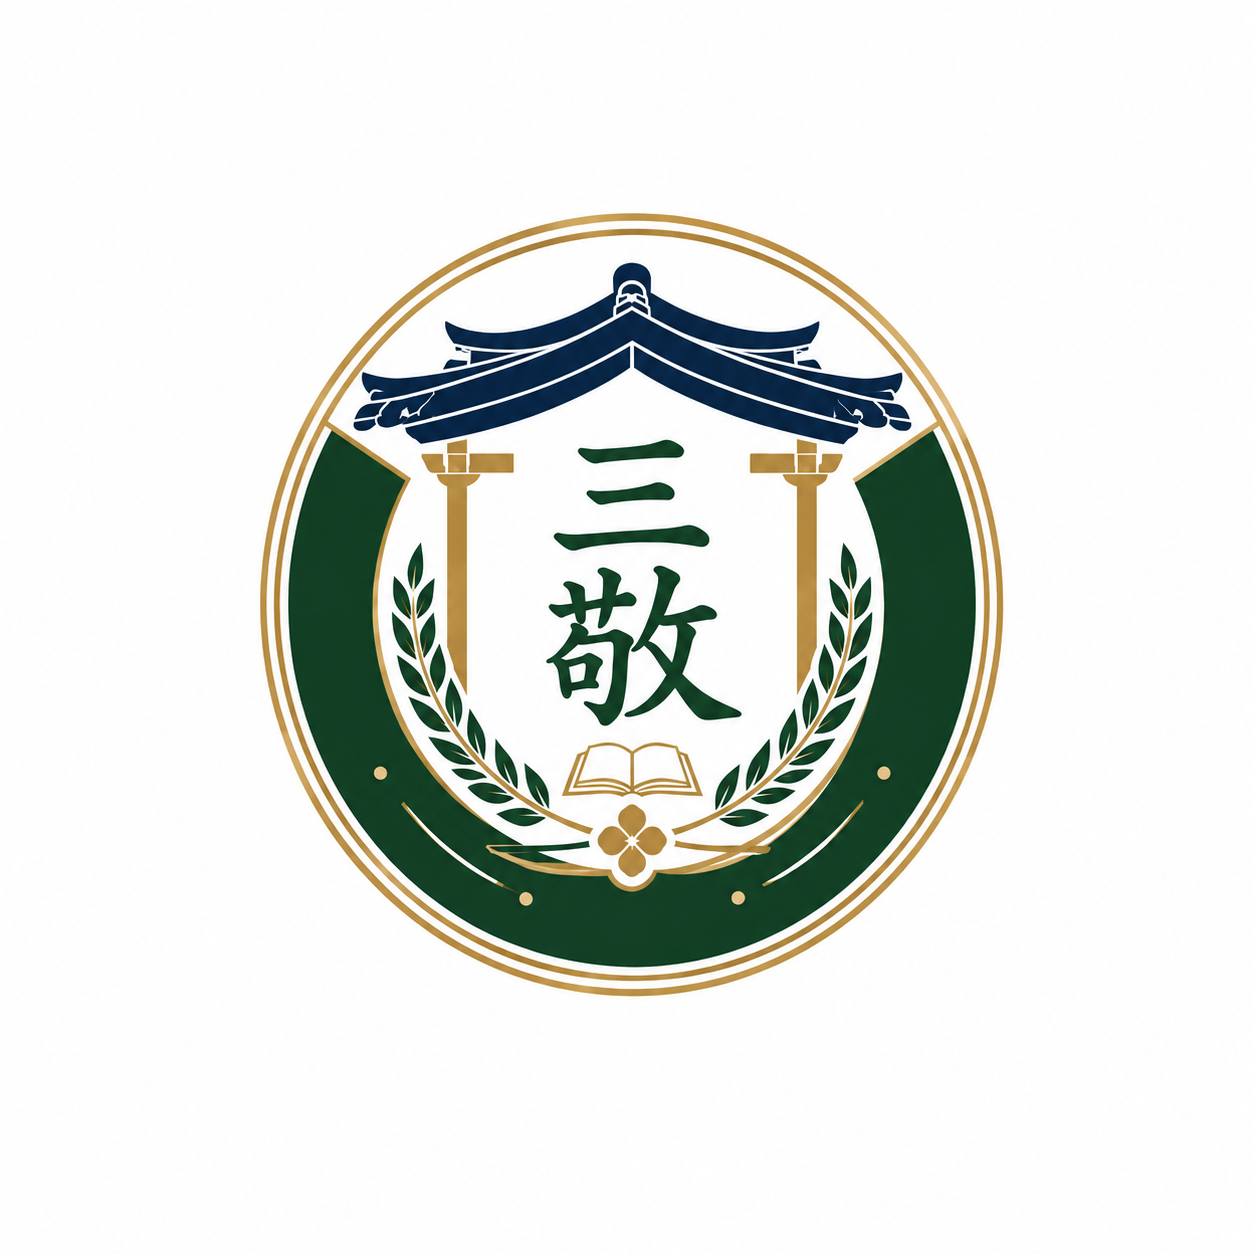
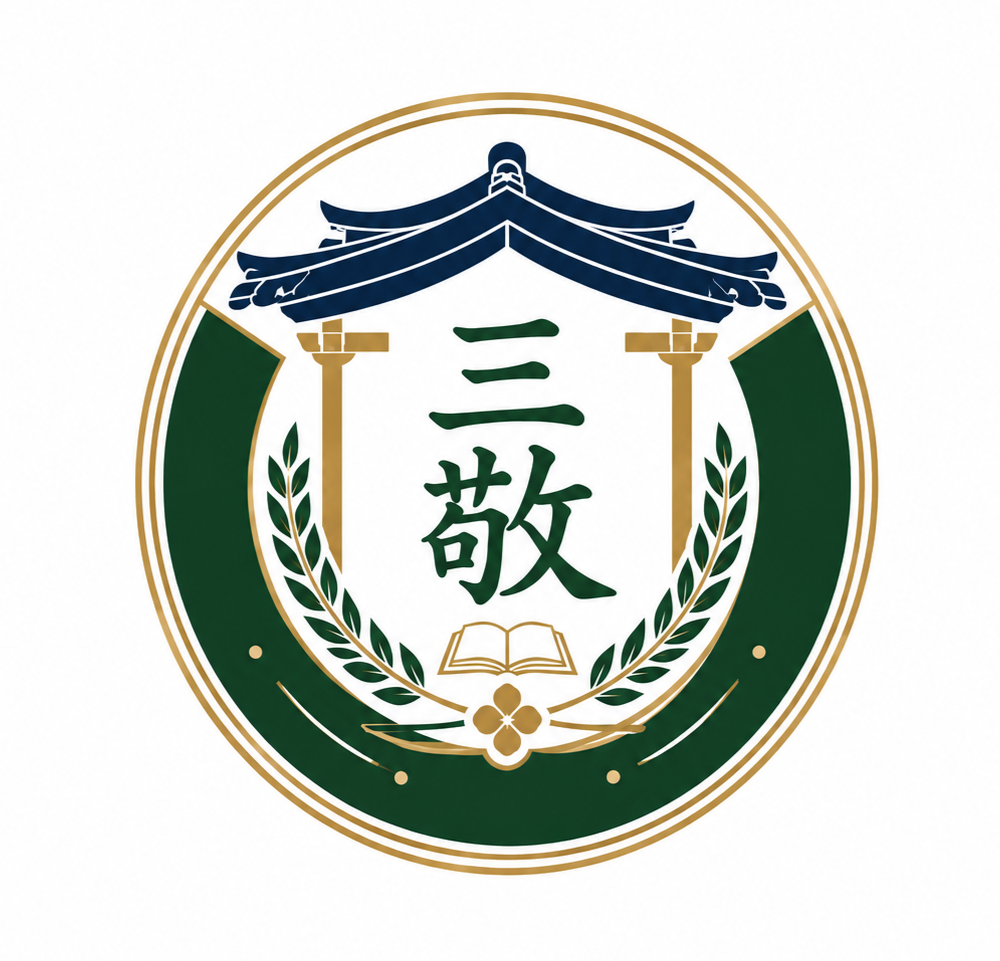
Update school symbol images

diff --git a/app/views/symbols.php b/app/views/symbols.php
@@ -22,7 +22,7 @@
             <article class="symbol-card">
                 <h2>교목 : 소나무 <span>松</span></h2>
                 <figure>
-                    <img src="https://images.unsplash.com/photo-1613967193490-1d17b930c1a1?auto=format&fit=crop&w=900&q=80" alt="소나무">
+                    <img src="/assets/pine-tree.jpg" alt="소나무">
                 </figure>
                 <p>
                     사시사철 푸르고 굳건한 기상을 자랑하는 소나무는 삼경인의